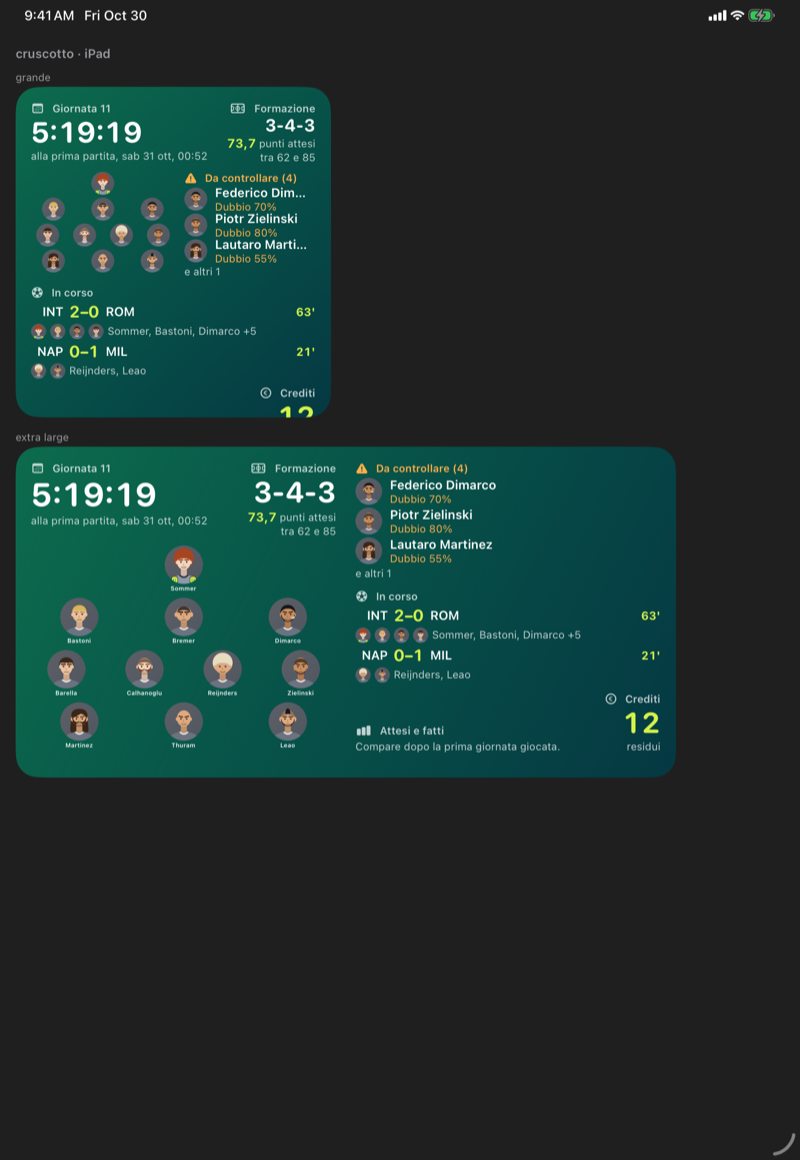
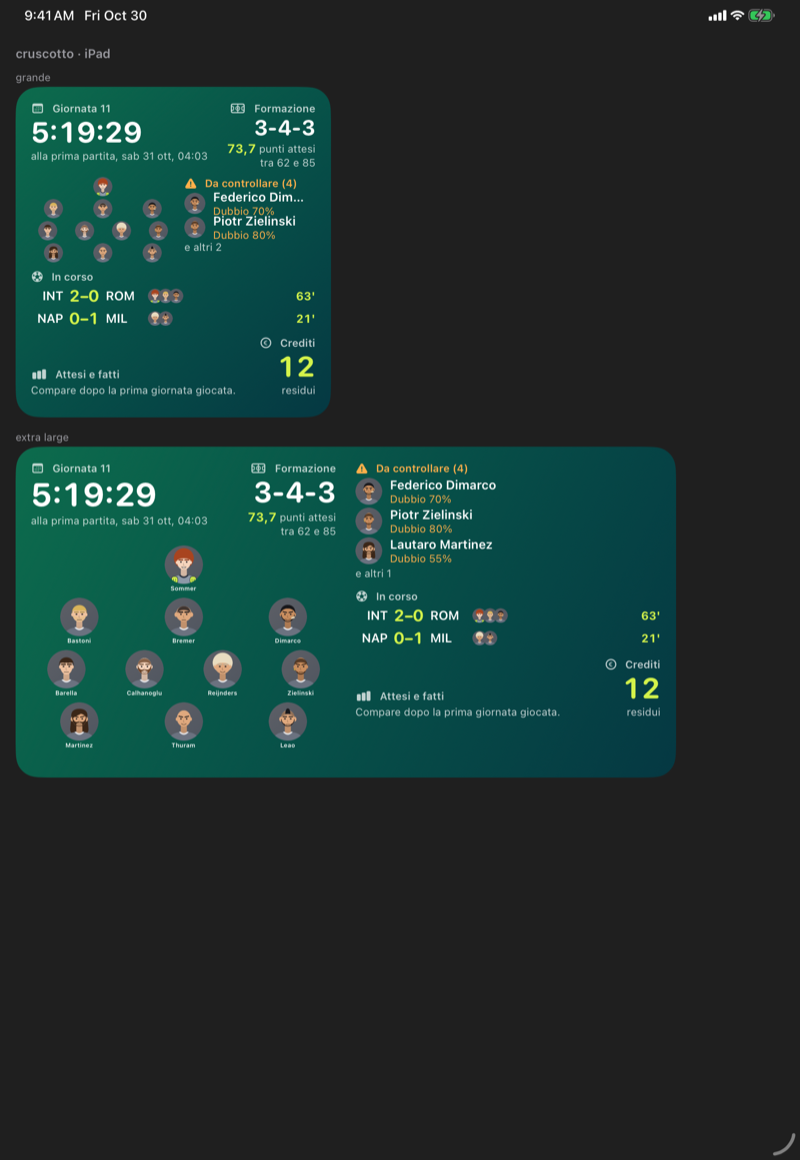
Widget: Formazione grande senza a capo del modulo, Prossima giornata medio con righe dei dubbi leggibili, riprova se lo scatto e' nero

diff --git a/WidgetSources/WidgetOggi.swift b/WidgetSources/WidgetOggi.swift
@@ -133,6 +133,8 @@ struct VistaWidget: View {
         .frame(maxWidth: .infinity, alignment: .leading)
     }
 
+    private var conDubbi: Bool { !(voce.completo?.daControllare.isEmpty ?? true) }
+
     private func medio(_ r: RiassuntoOggi) -> some View {
         HStack(alignment: .top, spacing: 16) {
             // a sinistra (conto alla rovescia) si apre Oggi, a destra (formazione) la Formazione
@@ -152,15 +154,22 @@ struct VistaWidget: View {
             }
             }
             Link(destination: URL(string: "fantaclaude://formazione") ?? URL(fileURLWithPath: "/")) {
-            VStack(alignment: .trailing, spacing: 4) {
+            VStack(alignment: conDubbi ? .leading : .trailing, spacing: conDubbi ? 2 : 4) {
                 Label("Formazione", systemImage: "sportscourt").font(.caption.weight(.semibold)).foregroundStyle(.white.opacity(0.8))
-                Text(r.modulo ?? "—").font(.system(.title, design: .rounded).weight(.bold))
-                Text("\(puntiTesto(r)) punti attesi").font(.caption).monospacedDigit().foregroundStyle(.white.opacity(0.9))
+                if conDubbi {
+                    HStack(alignment: .firstTextBaseline, spacing: 6) {
+                        Text(r.modulo ?? "—").font(.system(.title2, design: .rounded).weight(.bold))
+                        Text("\(puntiTesto(r)) punti").font(.caption).monospacedDigit().foregroundStyle(.white.opacity(0.9))
+                    }
+                } else {
+                    Text(r.modulo ?? "—").font(.system(.title, design: .rounded).weight(.bold))
+                    Text("\(puntiTesto(r)) punti attesi").font(.caption).monospacedDigit().foregroundStyle(.white.opacity(0.9))
+                }
                 Spacer(minLength: 0)
                 if let w = voce.completo, !w.daControllare.isEmpty {
                     // i miei titolari con un dubbio, un infortunio o una squalifica (dati di /api/widget)
                     VStack(alignment: .leading, spacing: 2) {
-                        ForEach(w.daControllare.prefix(2)) { g in RigaGiocatoreWidget(g: g, lato: 20, conLink: false) }
+                        ForEach(w.daControllare.prefix(2)) { g in RigaGiocatoreWidget(g: g, lato: 28, conLink: false) }
                         if w.daControllare.count > 2 {
                             Text("e altri \(w.daControllare.count - 2)").font(.caption2).foregroundStyle(TintaWidget.testo2)
                         }

diff --git a/WidgetSources/WidgetFormazione.swift b/WidgetSources/WidgetFormazione.swift
@@ -145,10 +145,12 @@ struct VistaFormazione: View {
 
     private func grande(_ w: RiassuntoWidget, _ f: FormazioneWidget, _ tit: [GiocatoreWidget]) -> some View {
         VStack(spacing: 8) {
-            HStack(alignment: .firstTextBaseline) {
-                Text(f.modulo ?? "—").font(.system(size: 34, weight: .bold, design: .rounded))
-                Text("\(punti(f)) punti attesi").font(.subheadline).monospacedDigit().foregroundStyle(TintaWidget.testo2)
-                if let t = f.intervallo?.testo { Text(t).font(.caption).foregroundStyle(TintaWidget.testo2).lineLimit(1) }
+            HStack(alignment: .center) {
+                Text(f.modulo ?? "—").font(.system(size: 34, weight: .bold, design: .rounded)).lineLimit(1).fixedSize()
+                VStack(alignment: .leading, spacing: 0) {
+                    Text("\(punti(f)) punti attesi").font(.subheadline).monospacedDigit().foregroundStyle(TintaWidget.testo2).lineLimit(1)
+                    if let t = f.intervallo?.testo { Text(t).font(.caption).foregroundStyle(TintaWidget.testo2).lineLimit(1) }
+                }
                 Spacer()
                 if let g = w.giornata { Text("Giornata \(g)").font(.caption).foregroundStyle(TintaWidget.testo2) }
             }
